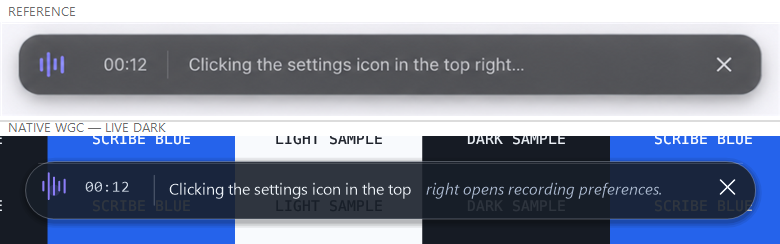
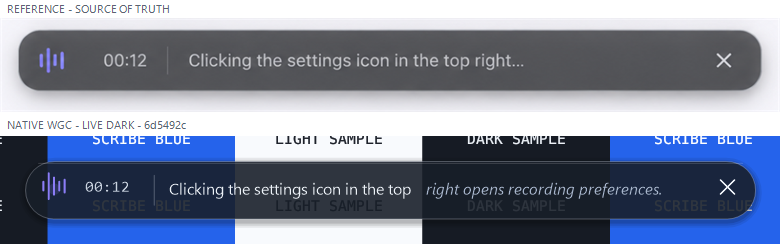
Refresh native overlay verification evidence

diff --git a/design-qa.md b/design-qa.md
@@ -199,7 +199,7 @@ final result: passed
 ## Source and implementation scope
 
 - Visual source of truth: `C:\Users\huang\.codex\attachments\1262dc67-8414-4589-960b-16e952d23970\image-1.png` (1142 x 137 source pixels).
-- Reviewed implementation source head: `69372d1` (`Remove obsolete native overlay seam helpers`), including native renderer commits `b208f1b`, `6507543`, `62b6d50`, and `bbc3994`.
+- Reviewed implementation source head: `6d5492c` (`Harden native overlay accessibility presentation`), including native renderer commits `b208f1b`, `6507543`, `62b6d50`, `bbc3994`, and the independent-review remediation.
 - Live target: a 600 x 62 logical-point bottom/top-center capsule with waveform, elapsed time, one divider, a one-line Unicode-grapheme-safe transcript/status tail, and a separately hardened 44 x 44 cancel viewport.
 - Compact target: a 320 x 52 logical-point status capsule without transcript preview.
 - Windows paints two UI-thread-owned top-level layered HWNDs from a premultiplied BGRA DIB through `UpdateLayeredWindow(ULW_ALPHA)`. The display is pass-through and nonactivating; only the separate cancel HWND accepts pointer input, without activation.
@@ -213,29 +213,31 @@ final result: passed
 - The experimental DWM system backdrop was removed. The production path uses deterministic painted translucency without native backdrop blur.
 - The waveform base glyph remains contrast-safe while its decorative halo reflects actual microphone level and freezes when reduced motion is requested.
 - Unicode tests cover combining marks, CJK, flags, skin-tone modifiers, and ZWJ emoji at the production one-line limit.
-- Accessibility tests verify exact cancel naming, a contained 44 x 44 target, non-live tentative text, single-owner Compact/root announcements, and Live precedence of notice/error, committed transcript delta, then phase.
+- Accessibility tests verify exact cancel naming, a contained 44 x 44 logical target, DPI-derived physical desktop bounds for every visible native node, non-live elapsed/tentative text, no phantom Compact timer, single-owner Compact/root announcements, and Live precedence of notice/error, committed transcript delta, then phase.
 - Foreground policy, stale-session rejection, pending/active abandonment, nonblocking worker drain, target retirement, and absence of final transcription/history/output are covered by automated tests.
-- Native tests cover ordered fail-closed presentation, pass-through/control profile separation, DIB sizing, premultiplication, real Phosphor glyph output, tooltip/control capability gating, AccessKit tree integrity, and session binding. Focused gates passed: native 22/22, overlay view 25/25, and theme 8/8.
-- Final branch gates passed: formatting, `git diff --check`, all-target/all-feature check, strict Clippy, and the serialized all-target/all-feature suite. The suite discovered 954 tests, passed 943, failed 0, and ignored 11 explicit local runtime/fixture tests.
+- Native tests cover ordered fail-closed presentation, atomic reset of both AccessKit trees before both HWNDs hide, pass-through/control profile separation, DIB sizing, fallible extreme-dimension allocation, premultiplication, real Phosphor glyph output, tooltip/control capability gating, WndProc panic containment/cleanup, AccessKit tree integrity, and session binding. Remediation-focused gates passed at `6d5492c`: native 31/31, overlay view 25/25, formatting, `git diff --check`, and strict all-target/all-feature Clippy.
+- The pre-remediation full branch gate at `f5dbdc0` discovered 954 tests, passed 943, failed 0, and ignored 11 explicit local runtime/fixture tests. A full-suite rerun at the remediated head remains the final integration gate; this design verdict relies on the focused regression gates and direct native evidence below.
 
 ## Native Windows capture and interaction evidence
 
 All captures below were produced with `Windows.Graphics.Capture` monitor capture and a hardware D3D device at feature level `0xB100`. They show the actual compositor result, not an application framebuffer. Every manifest records both overlay windows visible and uncloaked, the display style `0x80800A8`, the control style `0x8080088`, and an unchanged foreground HWND before, during, and after capture.
 
-- Live light: `design-qa-evidence/overlay-native/live-light-20260817-161758.png` and `.json` (750 x 78 at 120 DPI; 55 x 55 control).
-- Live dark: `design-qa-evidence/overlay-native/live-dark-20260817-161801.png` and `.json` (750 x 78 at 120 DPI; 55 x 55 control).
-- Compact light: `design-qa-evidence/overlay-native/compact-light-20260817-161703.png` and `.json` (320 x 52 at 96 DPI; 44 x 44 control).
-- Compact dark: `design-qa-evidence/overlay-native/compact-dark-20260817-161805.png` and `.json` (400 x 65 at 120 DPI; 55 x 55 control).
+- Live light: `design-qa-evidence/overlay-native/live-light-6d5492c-39988.png` and `.json` (750 x 78 at 120 DPI; 55 x 55 control).
+- Live dark: `design-qa-evidence/overlay-native/live-dark-6d5492c-39464.png` and `.json` (750 x 78 at 120 DPI; 55 x 55 control).
+- Compact light: `design-qa-evidence/overlay-native/compact-light-6d5492c-29856.png` and `.json` (400 x 65 at 120 DPI; 55 x 55 control).
+- Compact dark: `design-qa-evidence/overlay-native/compact-dark-6d5492c-31940.png` and `.json` (400 x 65 at 120 DPI; 55 x 55 control).
 - Same-state comparison: `design-qa-evidence/overlay-native/comparison-reference-live-dark.png`.
-- Win32/UIA probe: `design-qa-evidence/overlay-native/native-probes-20260817-162324.json`.
+- Win32/UIA and forced-failure probe: `design-qa-evidence/overlay-native/native-uia-hidden-probe-6d5492c.json`.
 
 The combined comparison was inspected at native resolution. Capsule silhouette/height, content order, purple Phosphor waveform, elapsed time, divider, transcript, X, transparency, and the join between the display/control HWNDs match closely; no black control tile or seam is present. Intentional differences are the theme-aware navy/light painted tint instead of a reference-only neutral dark surface, italic tentative text required by the preview contract, and deterministic translucency without native backdrop blur. Timer/divider alignment is approximately 5-13 logical points left of the reference cluster but remains within the approved 600 x 62 layout and does not impair hierarchy or readability.
 
-The probe verified `HTTRANSPARENT` (-1) for the display and `HTCLIENT` (1) for the control, `MA_NOACTIVATE` (3) for both, server-side UIA providers on both HWNDs, the exact control/button name `Cancel recording and discard it`, Invoke-pattern availability, `IsKeyboardFocusable=false`, and no foreground-HWND change.
+The visible probe verified `HTTRANSPARENT` (-1) for the display and `HTCLIENT` (1) for the control, `MA_NOACTIVATE` (3) for both, the exact control/button name `Cancel recording and discard it`, `IsKeyboardFocusable=false`, ElementFromPoint resolution to that button, and no foreground-HWND change. At 120 DPI, UIA reported the display root at `[905,1272..1655,1350]`, status/meter at `[925,1290..962,1327]`, `Elapsed time 00:12` at `[975,1297..1035,1325]`, preview/announcement at `[1058,1297..1590,1325]`, and the control root/button at `[1590,1283..1645,1338]` (55 x 55 physical pixels). Elapsed is static rather than live, so it does not duplicate phase/transcript announcements.
+
+The same live fixture then had `WS_EX_LAYERED` removed from the display HWND to force a real hardening-verification failure after visible AccessKit updates. The production failure path hid both HWNDs, both UIA subtree snapshots became empty, and ElementFromPoint at the former X center resolved the underlying fixture instead of the cancel button. This directly confirms that a failed `presented=false` result does not leave a stale visible tree or active cancel target.
 
 ## Remaining physical release gates
 
-The deterministic fixture does not open a microphone, issue a real abandon action, or prove taskbar/Alt+Tab enumeration, Narrator/NVDA speech, tooltip dwell, physical pointer routing into an underlying third-party app, every top/bottom monitor edge, or a full mixed-DPI monitor matrix. Those checks remain required through UI-06, UI-08, UI-10, UI-11, REC-04, and the applicable output-target rows in `docs/MANUAL_TEST_MATRIX.md`. They do not block the native visual-fidelity verdict, but they remain release gates for the complete feature.
+The deterministic fixture does not open a microphone, issue a real abandon action, or prove taskbar/Alt+Tab enumeration, Narrator/NVDA speech, tooltip dwell, physical pointer routing into an underlying third-party app, every top/bottom monitor edge, or a full mixed-DPI monitor matrix. Those checks remain required through UI-06, UI-08, UI-10, UI-11, REC-04, and the applicable output-target rows in `docs/MANUAL_TEST_MATRIX.md`. The full automated suite must also be rerun at `6d5492c` or its reviewed descendant before merge. These caveats do not block the native visual-fidelity verdict, but they remain release gates for the complete feature.
 
 final result: passed
 

diff --git a/docs/MANUAL_TEST_MATRIX.md b/docs/MANUAL_TEST_MATRIX.md
@@ -448,22 +448,23 @@ manual row above to PASS.
 
 | Area | Evidence | Status |
 | --- | --- | --- |
-| Repository gates | `cargo fmt --all -- --check`; `cargo check --all-targets --all-features`; `cargo clippy --all-targets --all-features -- -D warnings`; `cargo test --all-targets --all-features -- --test-threads=1`. Native renderer focused gate: native 22/22, overlay view 25/25, and theme 8/8. | **PASS** - the final branch suite discovered 954 tests, passed 943, failed 0, and ignored 11 explicit local runtime/fixture tests |
+| Repository gates | Baseline full gate at `f5dbdc0`: formatting, check, strict Clippy, and serialized full suite (954 discovered; 943 passed; 0 failed; 11 ignored). Remediation gate at `6d5492c`: native 31/31, overlay view 25/25, formatting, diff check, and strict all-target/all-feature Clippy. | **PASS focused remediation / full rerun required** - run the complete suite at the reviewed descendant before merge |
 | Presentation policy | Focused/unfocused/minimized/tray-hidden/unknown-focus, Off/Hidden/non-Windows, state preservation, and first-successful-presentation timing tests; WGC manifests record unchanged foreground HWNDs across actual presentation | **PASS automated/native fixture policy** - physical focus transitions between Scribe and arbitrary third-party apps remain NOT VERIFIED |
-| Display and control separation | Distinct layered HWNDs; WGC-visible/uncloaked style and 96/120-DPI geometry evidence; display `HTTRANSPARENT`, control `HTCLIENT`, both `MA_NOACTIVATE`; 320 x 52 Compact and 600 x 62 Live logical geometry; contained 44 x 44 AccessKit button | **PASS native fixture contracts** - taskbar/Alt+Tab enumeration, physical underlying-app clicks, and the full mixed-DPI matrix remain NOT VERIFIED |
+| Display and control separation | Distinct layered HWNDs; final WGC-visible/uncloaked 120-DPI geometry plus automated 96/120/144/192-DPI layout contracts; display `HTTRANSPARENT`, control `HTCLIENT`, both `MA_NOACTIVATE`; 320 x 52 Compact and 600 x 62 Live logical geometry; UIA reports the 44 x 44 logical control as an exact 55 x 55 desktop target at 120 DPI | **PASS native fixture contracts** - taskbar/Alt+Tab enumeration, physical underlying-app clicks, and the full mixed-DPI matrix remain NOT VERIFIED |
 | Discard lifecycle | Session-correlated pending/active discard, stale action rejection, startup cancellation, app-owned worker draining, capture-admission blocking, preview cancellation, audio release, and zero transcript/history/output tests | **PASS automated lifecycle** - physical microphone startup/driver shutdown remains NOT VERIFIED |
-| Preview and accessibility | Grapheme-safe one-rendered-row tail, committed/tentative styling, bounded notices, exclusive foreground/background live-region ownership, exact cancel name/tooltip, and foreground keyboard-equivalent discard; native probe confirms both server-side UIA providers, exact cancel button name, Invoke support, and no keyboard focusability | **PASS automated/native provider semantics** - Narrator/Accessibility Insights speech and tooltip dwell remain NOT VERIFIED |
-| Native visual fidelity | Hardware `Windows.Graphics.Capture` output for Live/Compact in light/dark at 96 and 120 DPI, plus the inspected same-state source comparison in `design-qa-evidence/overlay-native/` | **PASS deterministic native visual gate** - no missing display, black X tile, seam, clipping, or focus change; painted translucency intentionally omits native blur |
+| Preview and accessibility | Grapheme-safe one-rendered-row tail, committed/tentative styling, bounded notices, exclusive foreground/background live-region ownership, exact cancel name/tooltip, static elapsed semantics in both modes, and DPI-derived physical bounds for root/status/meter/elapsed/preview/announcement/button. The native probe confirms ElementFromPoint resolves the X and a forced post-AccessKit Verify failure leaves both HWNDs hidden with empty UIA subtrees. | **PASS automated/native provider semantics** - Narrator/Accessibility Insights speech and tooltip dwell remain NOT VERIFIED |
+| Native visual fidelity | Hardware `Windows.Graphics.Capture` output from exact head `6d5492c` for Live/Compact in light/dark at 120 DPI, automated scaling contracts at 96/120/144/192 DPI, plus the rebuilt same-state source comparison in `design-qa-evidence/overlay-native/` | **PASS deterministic native visual gate** - no missing display, black X tile, seam, clipping, or focus change; painted translucency intentionally omits native blur |
 | Security review | Specialist review of external-target isolation, native hardening profiles, stale action handling, cancellation ordering, privacy, and configuration compatibility | **PASS / GO** - no reportable security findings |
 
 Reproduce the deterministic overlay gate from the repository root with:
 
 ```powershell
-$env:PATH = 'C:\Program Files\CMake\bin;' + $env:PATH
+& 'C:\Program Files (x86)\Microsoft Visual Studio\2022\BuildTools\Common7\Tools\Launch-VsDevShell.ps1' -Arch amd64 -SkipAutomaticLocation
+$env:CMAKE = 'C:\Program Files (x86)\Microsoft Visual Studio\2022\BuildTools\Common7\IDE\CommonExtensions\Microsoft\CMake\CMake\bin\cmake.exe'
 $env:CARGO_TARGET_DIR = "$PWD\target\native-layered"
-cargo fmt --all -- --check
+cargo fmt --all --check
 cargo test --all-features overlay::native_windows --no-fail-fast
-cargo test --all-features overlay::view::tests --no-fail-fast
+cargo test --all-features overlay::view --no-fail-fast
 cargo test --all-features ui::theme::tests --no-fail-fast
 cargo clippy --all-targets --all-features -- -D warnings
 ```

diff --git a/docs/UI_HARNESS.md b/docs/UI_HARNESS.md
@@ -57,7 +57,8 @@ Run these fixtures only from a debug build with the `ui-harness` feature. For
 example:
 
 ```powershell
-$env:PATH = 'C:\Program Files\CMake\bin;' + $env:PATH
+& 'C:\Program Files (x86)\Microsoft Visual Studio\2022\BuildTools\Common7\Tools\Launch-VsDevShell.ps1' -Arch amd64 -SkipAutomaticLocation
+$env:CMAKE = 'C:\Program Files (x86)\Microsoft Visual Studio\2022\BuildTools\Common7\IDE\CommonExtensions\Microsoft\CMake\CMake\bin\cmake.exe'
 $env:CARGO_TARGET_DIR = "$PWD\target\native-layered"
 $env:SCRIBE_UI_HARNESS_VIEWPORT = '960x680'
 $env:SCRIBE_UI_HARNESS = 'overlay/live-dark'
@@ -86,11 +87,21 @@ display has `WS_EX_LAYERED | WS_EX_TRANSPARENT | WS_EX_NOACTIVATE |
 WS_EX_TOOLWINDOW`; the cancel control has the same profile without
 `WS_EX_TRANSPARENT`. Both are submitted as top-down premultiplied BGRA DIBs by
 `UpdateLayeredWindow(ULW_ALPHA)` and shown topmost without activation. The
-display exposes the current phase/preview through its native AccessKit adapter;
-the control exposes the exact `Cancel recording and discard it` button and a
-standard Windows tooltip. If display accessibility or pixel presentation
-fails, both windows hide. If only the cancel tooltip/control capability fails,
-the passive display remains and the X hides.
+display exposes the current phase, microphone meter, elapsed time, and preview
+through its native AccessKit adapter; the control exposes the exact `Cancel
+recording and discard it` button and a standard Windows tooltip. If display
+accessibility or pixel presentation fails, both AccessKit trees reset hidden
+before both windows hide. If only the cancel tooltip/control capability fails,
+the passive display remains and the X hides. Elapsed time is a static semantic
+node rather than a live region: Live always exposes its visible timer, while
+Compact exposes one only when it is painted.
+
+AccessKit node bounds and GDI+ paint placement share the same physical layout
+derived from the actual `OverlayWindowBounds`. AccessKit supplies physical
+client coordinates and its Windows adapter translates them through the HWND
+origin to UIA desktop `BoundingRectangle` values. Thus the 44 x 44 logical
+cancel target is 55 x 55 physical pixels on a 120-DPI monitor without using a
+stale fixed rectangle.
 
 The surface is deliberately painted translucent glass, not a native backdrop
 blur. This keeps light/dark output deterministic and fail-soft on Windows
@@ -133,6 +144,16 @@ Repeat with `overlay/live-light`,
 `overlay/compact-light`, and `overlay/compact-dark`. The helper is local QA
 instrumentation rather than a shipped Scribe executable; the four fixture
 routes themselves are checked-in and reproducible without it.
+
+The accepted `6d5492c` evidence is tracked in
+`design-qa-evidence/overlay-native/`. Its native UIA probe records the desktop
+bounds for display root/status/meter/elapsed/preview/announcement and control
+root/button, verifies ElementFromPoint at the X, and then removes
+`WS_EX_LAYERED` from the exact fixture display HWND. That forced Verify failure
+runs after visible semantic updates; the captured result has both HWNDs hidden,
+both UIA subtrees empty, and no cancel element at the former control center.
+The style mutation is confined to the disposable fixture process and is not a
+production test hook.
 
 ## Model-card contract
 
